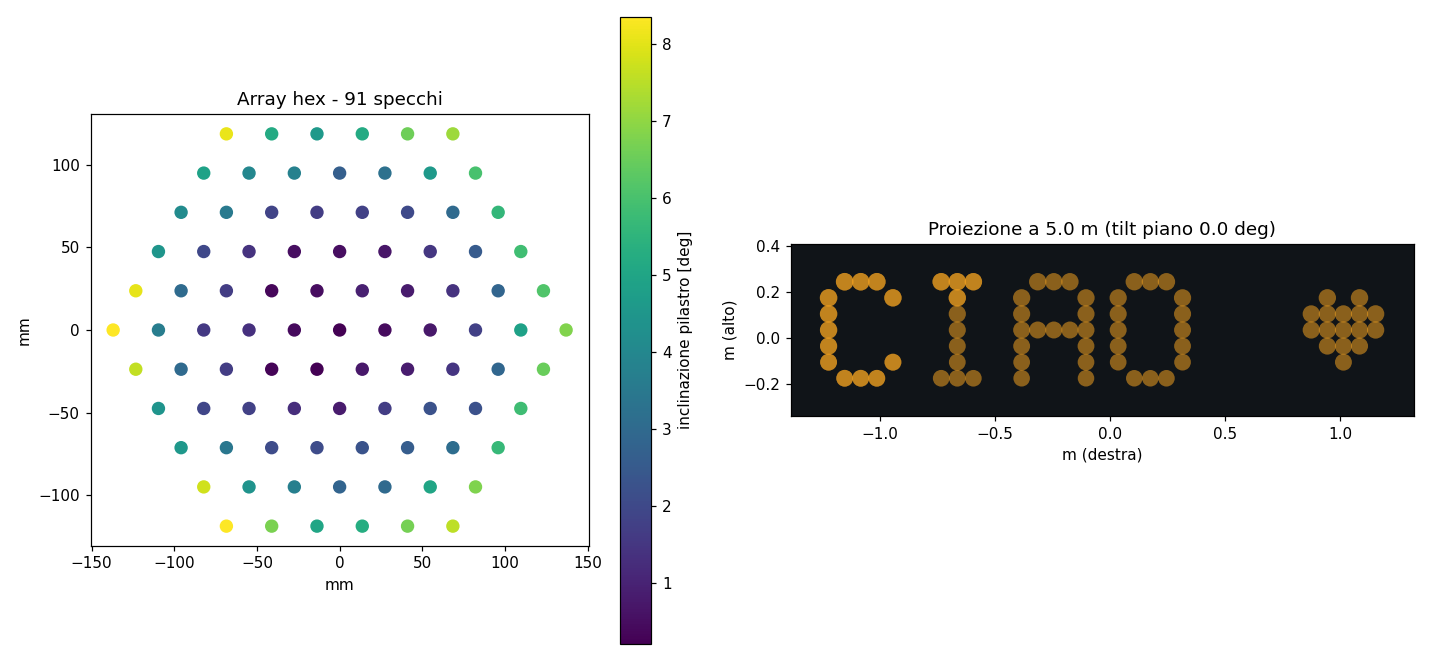
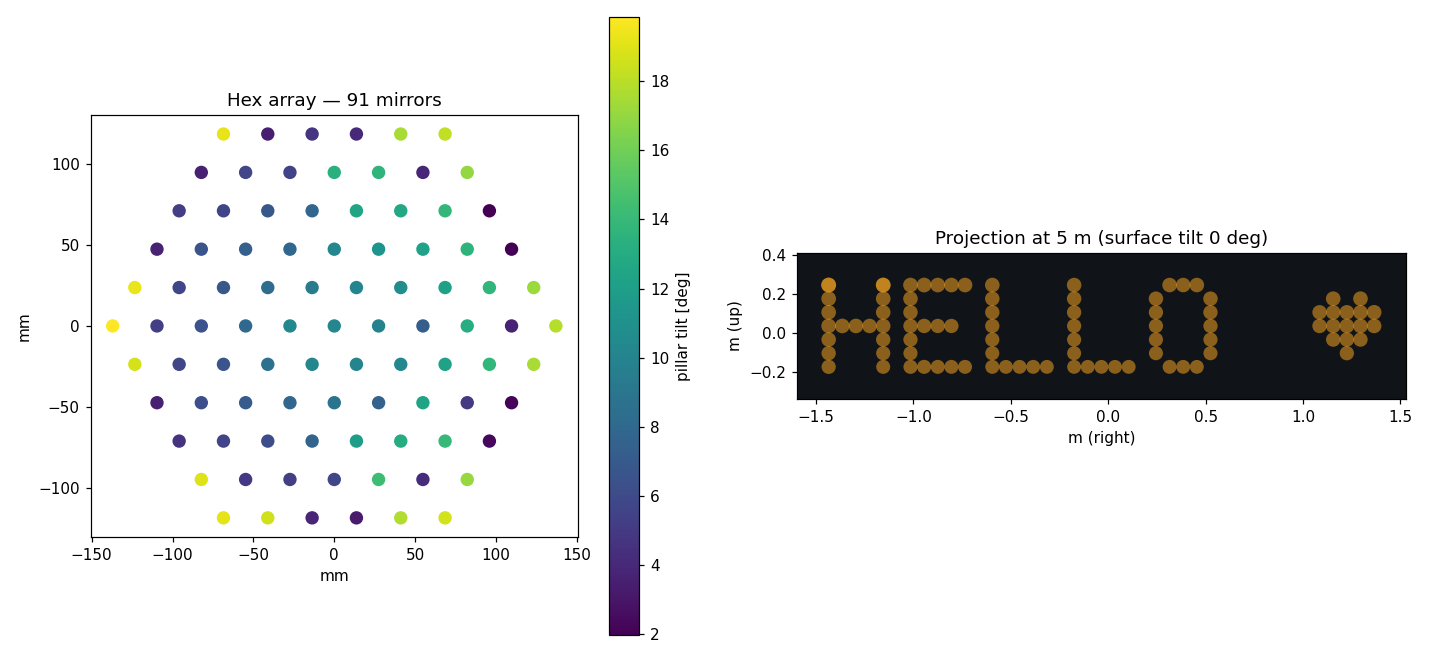
Translate Python tool to English; fix Pages workflow permissions

diff --git a/tool/mirror_array_gen/pipeline.py b/tool/mirror_array_gen/pipeline.py
@@ -25,7 +25,7 @@ def resolve_light(cfg):
         light["day_of_year"] = dt.timetuple().tm_yday
         elev, az_north = solar_position(dt, s["lat"], s["lon"])
         if elev <= 0:
-            raise ValueError(f"Il sole e' sotto l'orizzonte ({elev:.1f} deg) "
+            raise ValueError(f"The sun is below the horizon ({elev:.1f} deg) "
                              "a quella data/ora: scegli un altro momento.")
         # azimut relativo = azimut sole - azimut della direzione di proiezione
         light["sun"]["elevation_deg"] = elev
@@ -49,16 +49,16 @@ def compute_assignments(cfg):
         tilt = math.degrees(math.atan2(mean_n[1], mean_n[2]))
         cfg = json.loads(json.dumps(cfg))
         cfg["device"]["tilt_deg"] = tilt
-        print(f"  [info] inclinazione dispositivo auto: {tilt:.1f} deg "
-              "(0 = orizzontale, 90 = verticale rivolto in avanti)")
+        print(f"  [info] auto array tilt: {tilt:.1f} deg "
+              "(0 = horizontal, 90 = vertical facing forward)")
     rows, ctx = _compute(cfg)
     # vincolo fisico: la luce deve colpire il FRONTE dell'array (mai il retro)
     if any(r["v_dot_z"] <= 0.05 for r in rows):
-        raise ValueError("La luce arriva da dietro l'array: uno specchio non e' un "
-                         "vetro. Usa device.tilt_deg = \"auto\" o ruota il dispositivo.")
+        raise ValueError("Light comes from behind the array: a mirror is not a "
+                         "window. Use device.tilt_deg = \"auto\" or rotate the array.")
     exp = math.degrees(math.acos(max(-1.0, min(1.0, min(r["v_dot_z"] for r in rows)))))
     if exp > 60.0:
-        print(f"  [avviso] luce a {exp:.0f} gradi dal fronte dell'array: esposizione "
+        print(f"  [warning] luce a {exp:.0f} gradi dal fronte dell'array: esposizione "
               "debole, riduci l'angolo.")
     return rows, ctx
 
@@ -74,7 +74,7 @@ def _compute(cfg):
 
     targets2d, unknown = rasterize(cfg["text"]["string"], cfg["text"]["pitch_cm"] / 100.0)
     if unknown:
-        print(f"  [avviso] caratteri ignorati dal font: {unknown}")
+        print(f"  [warning] caratteri ignorati dal font: {unknown}")
 
     light = resolve_light(cfg)
     center = np.asarray(dev["center_m"], float)
@@ -154,13 +154,13 @@ def partition(offsets, footprint_mm, bed_wh_mm, shape="hex"):
     """
     offsets = np.asarray(offsets, dtype=float)
     if offsets.ndim != 2 or offsets.shape[1] != 2 or len(offsets) == 0:
-        raise ValueError("offsets non validi")
+        raise ValueError("invalid offsets")
     bw, bh = float(bed_wh_mm[0]), float(bed_wh_mm[1])
     fpx, fpy = footprint_xy(footprint_mm, shape)
     if bw <= fpx or bh <= fpy:
         raise ValueError(
-            f"Piatto {bw:.0f}x{bh:.0f} mm troppo piccolo: un singolo pilastro "
-            f"occupa {fpx:.1f}x{fpy:.1f} mm")
+            f"Print bed {bw:.0f}x{bh:.0f} mm is too small: a single pillar "
+            f"takes {fpx:.1f}x{fpy:.1f} mm")
     ux, uy = bw - fpx, bh - fpy        # larghezza utile per i centri
     cx0 = float(offsets[:, 0].min())
     cy0 = float(offsets[:, 1].min())
@@ -184,28 +184,28 @@ def generate(cfg, out_dir, bed_wh_mm=(220.0, 220.0)):
                                           dev["mirror_width_mm"] + 2 * margin)
     top_h = max(pil.get("base_height_mm", 12.0), needed)
     if top_h > pil.get("base_height_mm", 12.0):
-        print(f"  [info] altezza pilastri portata a {top_h:.1f} mm per "
-              "accomodare le inclinazioni richieste.")
+        print(f"  [info] pillar height raised to {top_h:.1f} mm to "
+              "accommodate the required tilts.")
     aligner = pil.get("aligner", True)
     footprint = dev["mirror_width_mm"] + 2 * margin + dev["gap_mm"]
 
     max_err = max(r["hit_err_m"] for r in rows)
     if max_err > 1e-6:
-        raise AssertionError(f"Autoverifica ottica fallita: errore {max_err:.2e} m")
+        raise AssertionError(f"Optical self-check failed: error {max_err:.2e} m")
     occ = occlusion_fraction(cfg, rows, ctx)
     if occ:
-        print(f"  [avviso] il pannello dell'array copre la vista all'osservatore: "
-              f"{occ*100:.0f}% dei punti nascosti. Cambia altezza array/scritta o posizione.")
+        print(f"  [warning] the array panel blocks the viewer's line of sight: "
+              f"{occ*100:.0f}% of the dots are hidden. Change the array/text height or position.")
     worst_inc = max(r["inc_deg"] for r in rows)
     if worst_inc > 60.0:
-        print(f"  [avviso] incidenza radente ({worst_inc:.0f} deg dalla normale): "
-              "gli specchi cattureranno pochissima luce. Con sole basso, "
-              "orienta la proiezione VERSO il sole (azimut proiezione ~ azimut sole).")
+        print(f"  [warning] incidenza radente ({worst_inc:.0f} deg dalla normale): "
+              "the mirrors will catch very little light. With a low sun, "
+              "aim the projection TOWARD the sun (projection azimuth ~ sun azimuth).")
     steep = [r for r in rows if r["tilt_deg"] > MAX_TILT_DEG]
     if steep:
-        print(f"  [avviso] {len(steep)} pilastri con inclinazione > {MAX_TILT_DEG} deg "
+        print(f"  [warning] {len(steep)} pillars tilted more than {MAX_TILT_DEG} deg "
               f"(max {max(r['tilt_deg'] for r in steep):.1f} deg): "
-              "valuta di inclinare il dispositivo o avvicinare il bersaglio.")
+              "consider tilting the array or moving the target closer.")
 
     if cfg.get("assignments"):
         provided = np.array([a["normal_local"] for a in cfg["assignments"]])
@@ -213,7 +213,7 @@ def generate(cfg, out_dir, bed_wh_mm=(220.0, 220.0)):
         if provided.shape == ours.shape:
             dev_max = float(np.abs(provided - ours).max())
             status = "OK" if dev_max < 1e-4 else "DIVERGENZA! Controlla i parametri."
-            print(f"  Verifica incrociata con l'app web: scarto max {dev_max:.2e} ({status})")
+            print(f"  Cross-check against the web app: max deviation {dev_max:.2e} ({status})")
 
     tiles, (nx, ny) = partition(ctx["offsets"], footprint, bed_wh_mm, dev["mirror_shape"])
     files = []

diff --git a/tool/mirror_array_gen/validation.py b/tool/mirror_array_gen/validation.py
@@ -3,35 +3,35 @@
 
 def _num(v, name, *, min_value=None, max_value=None):
     if isinstance(v, bool) or not isinstance(v, (int, float)):
-        raise ValueError(f"{name} deve essere numerico")
+        raise ValueError(f"{name} must be a number")
     v = float(v)
     if min_value is not None and v < min_value:
-        raise ValueError(f"{name} deve essere >= {min_value}")
+        raise ValueError(f"{name} must be >= {min_value}")
     if max_value is not None and v > max_value:
-        raise ValueError(f"{name} deve essere <= {max_value}")
+        raise ValueError(f"{name} must be <= {max_value}")
     return v
 
 
 def validate_config(cfg):
     if not isinstance(cfg, dict):
-        raise ValueError("Il config deve essere un oggetto JSON")
+        raise ValueError("Config must be a JSON object")
     if cfg.get("schema_version") != 1:
-        raise ValueError("schema_version deve essere 1")
+        raise ValueError("schema_version must be 1")
     for section in ("light", "plane", "device", "text"):
         if not isinstance(cfg.get(section), dict):
-            raise ValueError(f"Sezione obbligatoria mancante: {section}")
+            raise ValueError(f"Missing required section: {section}")
 
     light = cfg["light"]
     if light.get("mode") not in ("sun", "lamp"):
-        raise ValueError("light.mode deve essere 'sun' oppure 'lamp'")
+        raise ValueError("light.mode must be 'sun' or 'lamp'")
     if light["mode"] == "sun":
         sun = light.get("sun")
         if not isinstance(sun, dict):
-            raise ValueError("light.sun mancante")
+            raise ValueError("light.sun is missing")
         if sun.get("auto"):
             for k in ("datetime_utc", "lat", "lon"):
                 if k not in sun:
-                    raise ValueError(f"light.sun.{k} mancante per la modalità auto")
+                    raise ValueError(f"light.sun.{k} is required in auto mode")
             _num(sun["lat"], "light.sun.lat", min_value=-90, max_value=90)
             _num(sun["lon"], "light.sun.lon", min_value=-180, max_value=180)
         else:
@@ -40,7 +40,7 @@ def validate_config(cfg):
     else:
         lamp = light.get("lamp")
         if not isinstance(lamp, dict) or len(lamp.get("position_m", [])) != 3:
-            raise ValueError("light.lamp.position_m deve contenere 3 coordinate")
+            raise ValueError("light.lamp.position_m must have 3 coordinates")
         for i, v in enumerate(lamp["position_m"]):
             _num(v, f"light.lamp.position_m[{i}]")
         _num(lamp.get("diameter_m", 0.05), "light.lamp.diameter_m", min_value=0)
@@ -53,28 +53,28 @@ def validate_config(cfg):
 
     dev = cfg["device"]
     if len(dev.get("center_m", [])) != 3:
-        raise ValueError("device.center_m deve contenere 3 coordinate")
+        raise ValueError("device.center_m must have 3 coordinates")
     if dev.get("tilt_deg") != "auto":
         _num(dev.get("tilt_deg"), "device.tilt_deg", min_value=-89.9, max_value=90.0)
     if dev.get("mirror_shape") not in ("hex", "square"):
-        raise ValueError("device.mirror_shape deve essere 'hex' o 'square'")
+        raise ValueError("device.mirror_shape must be 'hex' or 'square'")
     _num(dev.get("mirror_width_mm"), "device.mirror_width_mm", min_value=0.1)
     _num(dev.get("gap_mm", 0), "device.gap_mm", min_value=0)
     grid = dev.get("grid")
     if not isinstance(grid, dict) or grid.get("type") not in ("hex", "square"):
-        raise ValueError("device.grid.type deve essere 'hex' o 'square'")
+        raise ValueError("device.grid.type must be 'hex' or 'square'")
     if grid["type"] == "hex":
         radius = grid.get("radius")
         if not isinstance(radius, int) or radius < 0:
-            raise ValueError("device.grid.radius deve essere un intero >= 0")
+            raise ValueError("device.grid.radius must be an integer >= 0")
     else:
         for k in ("cols", "rows"):
             if not isinstance(grid.get(k), int) or grid[k] < 1:
-                raise ValueError(f"device.grid.{k} deve essere un intero >= 1")
+                raise ValueError(f"device.grid.{k} must be an integer >= 1")
 
     text = cfg["text"]
     if not isinstance(text.get("string"), str) or not text["string"].strip():
-        raise ValueError("text.string non può essere vuoto")
+        raise ValueError("text.string cannot be empty")
     _num(text.get("pitch_cm"), "text.pitch_cm", min_value=0.01)
 
     return True

diff --git a/tool/mirror_array_gen/geometry.py b/tool/mirror_array_gen/geometry.py
@@ -18,7 +18,7 @@ def polygon(shape, width_mm, n_rot_deg=0.0):
         R = width_mm / np.sqrt(2.0)
         ang = np.radians(np.arange(4) * 90.0 + 45.0 + n_rot_deg)
     else:
-        raise ValueError(f"Forma specchio sconosciuta: {shape}")
+        raise ValueError(f"Unknown mirror shape: {shape}")
     return np.stack([R * np.cos(ang), R * np.sin(ang)], axis=1)
 
 
@@ -59,7 +59,7 @@ def top_ring(poly2d, center, top_h, normal_local):
     passante per (center, top_h)."""
     n = np.asarray(normal_local, float)
     if n[2] <= 0.05:
-        raise ValueError("Normale locale quasi orizzontale: pilastro non stampabile.")
+        raise ValueError("Local normal is nearly horizontal: pillar is not printable.")
     pts = []
     for (px, py) in poly2d:
         z = top_h - (n[0] * px + n[1] * py) / n[2]
@@ -76,8 +76,8 @@ def pillar(center_ab, normal_local, shape, mirror_width_mm, margin_mm,
     bottom = np.array([[cx + p[0], cy + p[1], 0.0] for p in outer2d])
     top = top_ring(outer2d, (cx, cy), top_h_mm, normal_local)
     if top[:, 2].min() < 2.0:
-        raise ValueError("Pilastro troppo basso per l'inclinazione richiesta: "
-                         "aumenta l'altezza dei pilastri.")
+        raise ValueError("Pillar too short for the required tilt: "
+                         "increase the pillar height.")
     tris = _prism_between(bottom, top)
 
     if aligner:
@@ -106,10 +106,10 @@ def write_stl(triangles, path):
     interno: il generatore non deve fallire per una dipendenza opzionale."""
     tris = [np.asarray(t, dtype=float) for t in triangles]
     if not tris:
-        raise ValueError("Nessuna faccia da scrivere nello STL")
+        raise ValueError("No faces to write to the STL")
     for t in tris:
         if t.shape != (3, 3) or not np.isfinite(t).all():
-            raise ValueError("Triangolo STL non valido (forma errata o NaN/Inf)")
+            raise ValueError("Invalid STL triangle (bad shape or NaN/Inf)")
     try:
         from stl import mesh as stlmesh
     except ModuleNotFoundError:

diff --git a/tool/generate.py b/tool/generate.py
@@ -18,25 +18,25 @@ def main():
     ap = argparse.ArgumentParser(description=__doc__)
     ap.add_argument("config", help="file config.json")
     ap.add_argument("--bed", default="220x220",
-                    help="dimensioni piatto di stampa in mm, es. 220x220")
-    ap.add_argument("-o", "--out", default="output", help="cartella di output")
+                    help="print bed size in mm, e.g. 220x220")
+    ap.add_argument("-o", "--out", default="output", help="output folder")
     args = ap.parse_args()
 
     with open(args.config) as f:
         cfg = json.load(f)
     if cfg.get("schema_version") != 1:
-        sys.exit("Config non riconosciuto: atteso schema_version = 1.")
+        sys.exit("Unrecognised config: expected schema_version = 1.")
     bw, bh = (float(x) for x in args.bed.lower().split("x"))
 
-    print(f"Testo: {cfg['text']['string']!r}  |  sorgente: {cfg['light']['mode']}")
+    print(f"Text: {cfg['text']['string']!r}  |  light: {cfg['light']['mode']}")
     rows, files, report = generate(cfg, args.out, (bw, bh))
-    print(f"Specchi: {len(rows)}  |  inclinazione max: "
+    print(f"Mirrors: {len(rows)}  |  max tilt: "
           f"{max(r['tilt_deg'] for r in rows):.1f} deg")
     for path, npil, ntri in files:
-        print(f"  {path}  ({npil} pilastri, {ntri} triangoli)")
+        print(f"  {path}  ({npil} pillars, {ntri} triangles)")
     print(f"  {report}")
-    print("Fatto. Stampa gli STL con layer fini negli ultimi mm superiori "
-          "(le facce inclinate determinano gli angoli degli specchi).")
+    print("Done. Print the STL tiles with fine layers over the top few mm "
+          "(the slanted faces set the mirror angles).")
 
 
 if __name__ == "__main__":

diff --git a/tool/mirror_array_gen/report.py b/tool/mirror_array_gen/report.py
@@ -1,4 +1,4 @@
-"""Report visivo: layout dell'array e anteprima della proiezione."""
+"""Visual report: array layout and projection preview."""
 import numpy as np
 import matplotlib
 matplotlib.use("Agg")
@@ -10,8 +10,8 @@ def save_report(rows, ctx, cfg, path):
     offs = ctx["offsets"]
     tilts = [r["tilt_deg"] for r in rows]
     sc = ax1.scatter(offs[:, 0], offs[:, 1], c=tilts, cmap="viridis", s=60)
-    plt.colorbar(sc, ax=ax1, label="inclinazione pilastro [deg]")
-    ax1.set_title(f"Array {cfg['device']['mirror_shape']} - {len(rows)} specchi")
+    plt.colorbar(sc, ax=ax1, label="pillar tilt [deg]")
+    ax1.set_title(f"{cfg['device']['mirror_shape'].capitalize()} array \u2014 {len(rows)} mirrors")
     ax1.set_xlabel("mm"); ax1.set_ylabel("mm"); ax1.set_aspect("equal")
 
     P0, r_b, s_b = ctx["P0"], ctx["r"], ctx["s"]
@@ -26,9 +26,9 @@ def save_report(rows, ctx, cfg, path):
     ax2.set_ylim(ts[:, 1].min() - pad, ts[:, 1].max() + pad)
     ax2.set_aspect("equal")
     ax2.set_facecolor("#101418")
-    ax2.set_title(f"Proiezione a {cfg['plane']['distance_m']} m "
-                  f"(tilt piano {cfg['plane']['tilt_deg']} deg)")
-    ax2.set_xlabel("m (destra)"); ax2.set_ylabel("m (alto)")
+    ax2.set_title(f"Projection at {cfg['plane']['distance_m']} m "
+                  f"(surface tilt {cfg['plane']['tilt_deg']} deg)")
+    ax2.set_xlabel("m (right)"); ax2.set_ylabel("m (up)")
     fig.tight_layout()
     fig.savefig(path, dpi=110)
     plt.close(fig)

diff --git a/tool/mirror_array_gen/optics.py b/tool/mirror_array_gen/optics.py
@@ -39,7 +39,7 @@ def to_light_vector(mirror_pos, light):
 
 
 def mirror_normal(mirror_pos, target_pos, to_light):
-    """Normale = bisettrice tra 'verso la sorgente' e 'verso il bersaglio'."""
+    """Normal = bisector between 'toward the source' and 'toward the target'."""
     to_target = normalize(np.asarray(target_pos, float) - np.asarray(mirror_pos, float))
     return normalize(normalize(to_light) + to_target)
 
@@ -81,10 +81,10 @@ def intersect_plane(origin, direction, P0, n_plane):
     d = normalize(direction)
     denom = np.dot(d, n_plane)
     if abs(denom) < 1e-9:
-        raise ValueError("Raggio parallelo al piano focale: nessuna intersezione.")
+        raise ValueError("Ray is parallel to the focal plane: no intersection.")
     t = np.dot(P0 - np.asarray(origin, float), n_plane) / denom
     if t <= 0:
-        raise ValueError("Il piano focale e' dietro lo specchio: geometria non valida.")
+        raise ValueError("The focal plane is behind the mirror: invalid geometry.")
     return np.asarray(origin, float) + t * d, t
 
 
@@ -111,7 +111,7 @@ def solar_divergence_rad(day_of_year=None):
 
 
 def air_mass(elev_deg):
-    """Kasten & Young (1989): massa d'aria ottica dall'altezza solare apparente."""
+    """Kasten & Young (1989): optical air mass from apparent solar elevation."""
     import math
     g = max(0.5, float(elev_deg))
     return 1.0 / (math.sin(math.radians(g)) + 0.50572 * (g + 6.07995) ** -1.6364)

diff --git a/tool/mirror_array_gen/matching.py b/tool/mirror_array_gen/matching.py
@@ -56,8 +56,8 @@ def match(mirrors_2d, targets_2d):
     if n_t == 0:
         raise ValueError("Nessun punto bersaglio: testo vuoto o caratteri ignoti.")
     if n_t > n_m:
-        raise ValueError(f"Servono {n_t} specchi ma la griglia ne ha {n_m}: "
-                         "ingrandisci la griglia o accorcia il testo.")
+        raise ValueError(f"Need {n_t} mirrors but the grid has {n_m}: "
+                         "enlarge the grid or shorten the text.")
     reps = int(np.ceil(n_m / n_t))
     t_ext = np.tile(targets_2d, (reps, 1))[:n_m]
     t_idx = np.tile(np.arange(n_t), reps)[:n_m]

diff --git a/tool/tests/test_all.py b/tool/tests/test_all.py
@@ -121,7 +121,7 @@ def test_backlit_rejected():
     cfg = _base_cfg()
     cfg["light"]["sun"] = {"elevation_deg": 30, "azimuth_rel_deg": 0}
     cfg["device"]["tilt_deg"] = 60.0
-    with pytest.raises(ValueError, match="dietro l'array"):
+    with pytest.raises(ValueError, match="behind the array"):
         compute_assignments(cfg)
 
 
